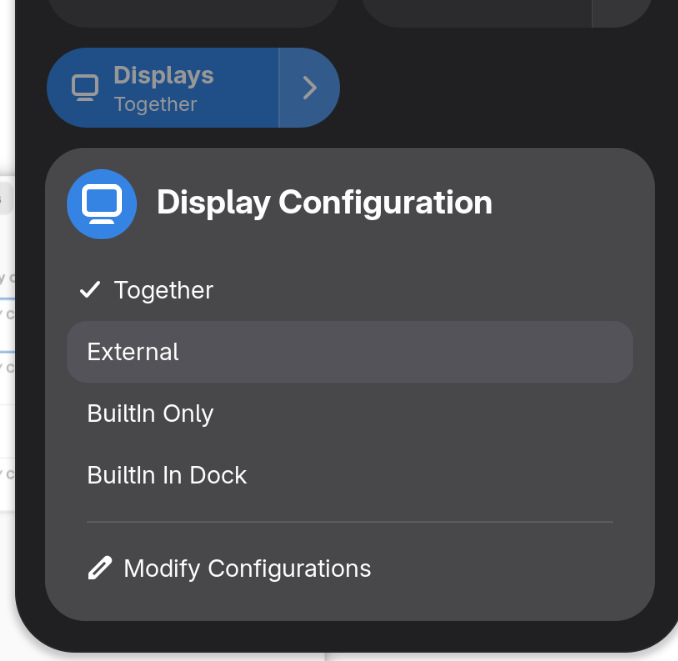
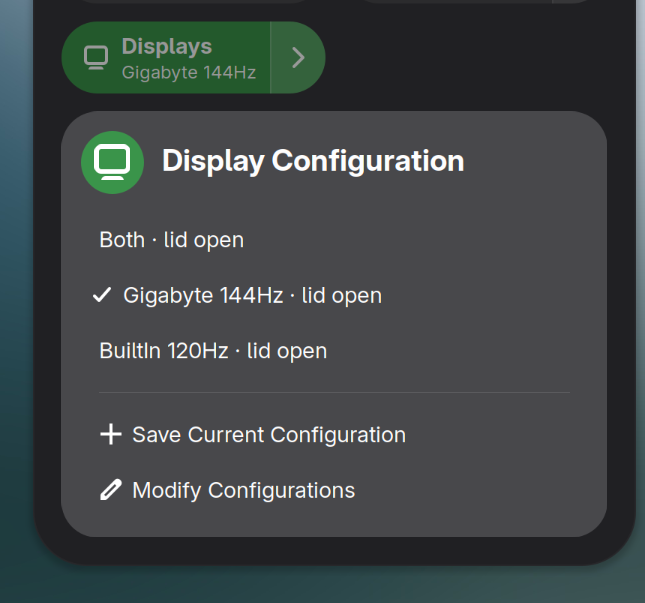
Update screen assets for improved visuals

diff --git a/README.md b/README.md
@@ -11,8 +11,8 @@
 ## Screenshots
 
 <div align="center">
-    <img style="margin: 0px 10px 0px; display: inline-block;" src="./screen01.png" width="150">
-    <img style="margin: 0px 10px 0px; display: inline-block;" src="./screen02.png" width="250">
+    <img style="margin: 0px 10px 0px; display: inline-block;" src="./assets/screen01.png" width="150">
+    <img style="margin: 0px 10px 0px; display: inline-block;" src="./assets/screen02.png" width="250">
 </div>
 
 ## Description
